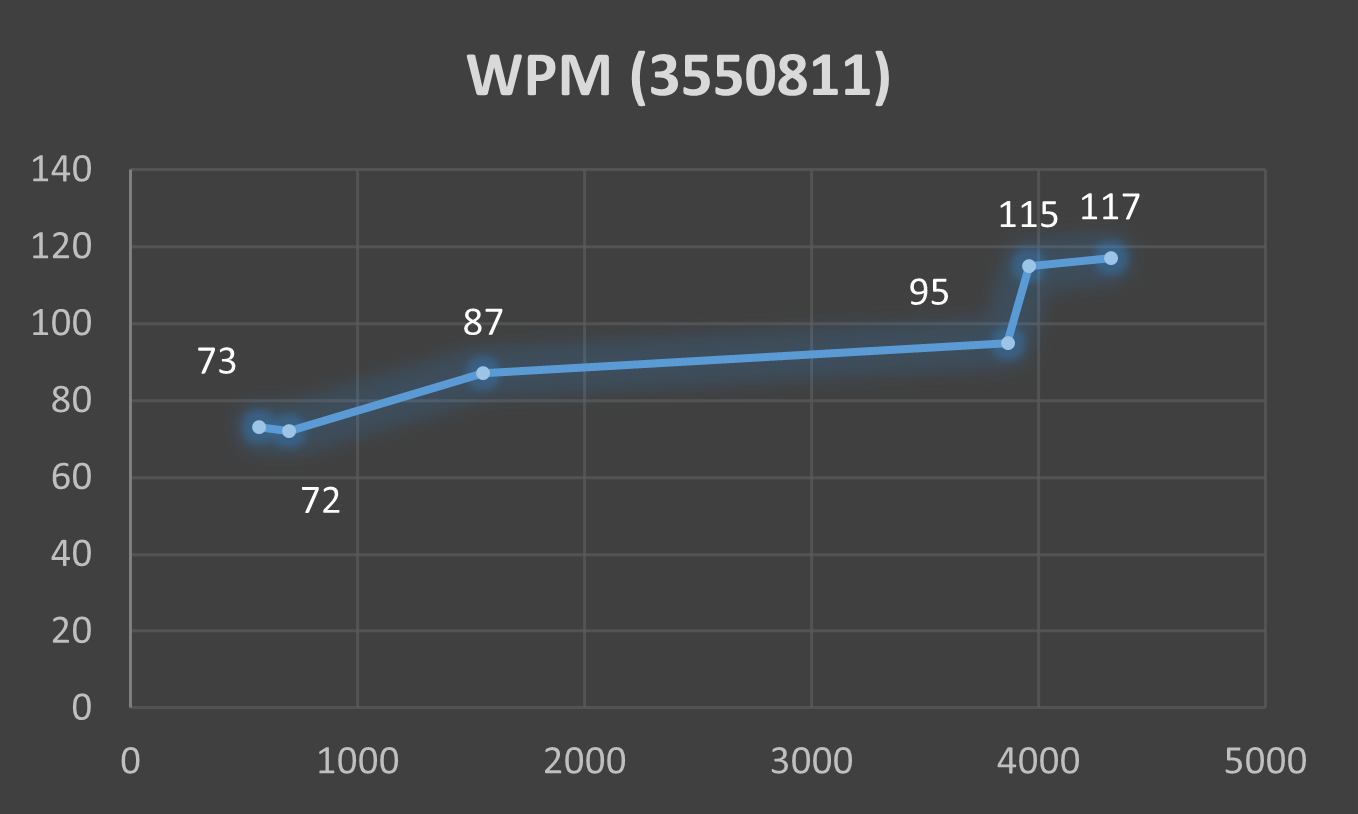
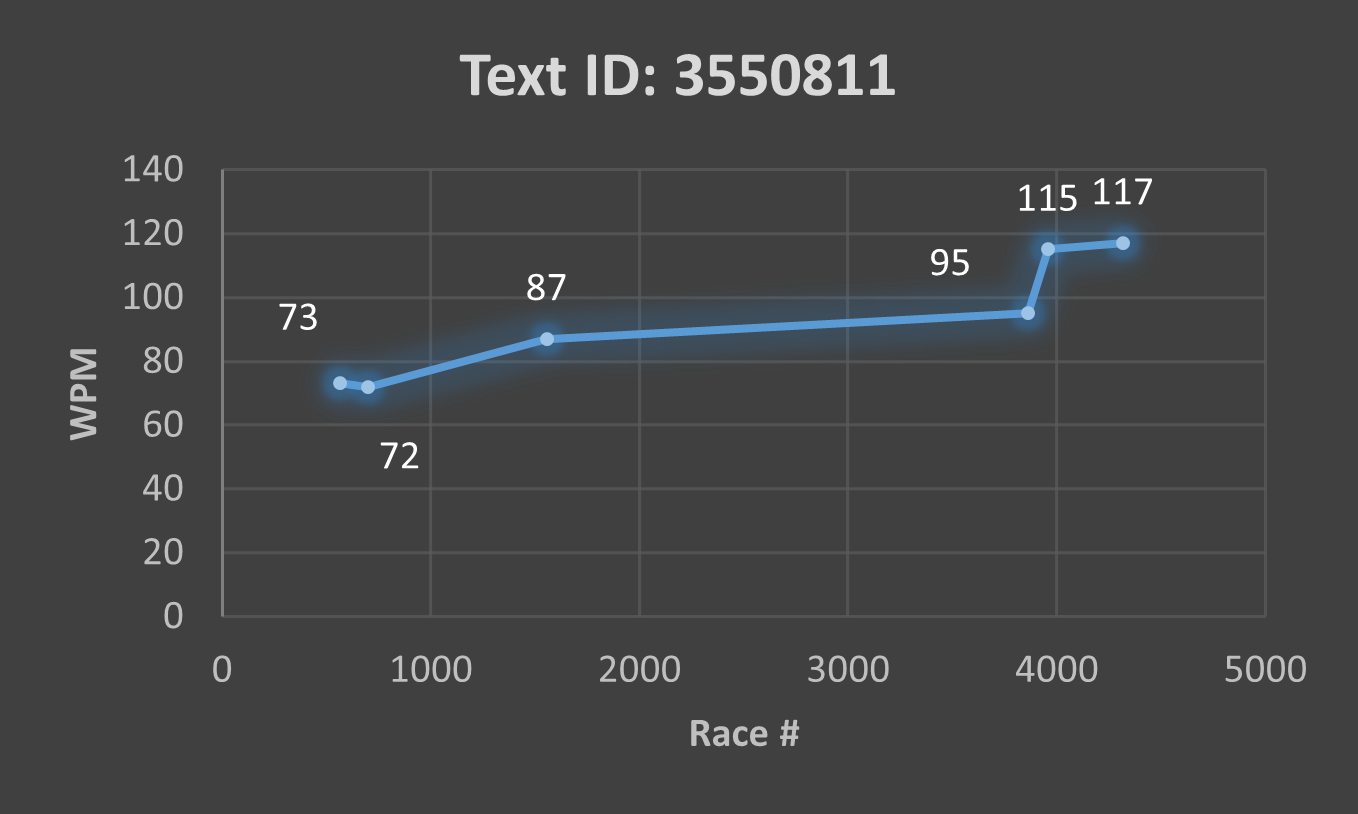
quote-samples outline

diff --git a/typeracer.html b/typeracer.html
@@ -202,7 +202,7 @@
                 <br><br>
                 ~~This <a href="https://typeracer.wordpress.com/2017/08/27/typeracer-reaches-3700-quotes-how-many-have-you-typed/">blog post</a> from 2017 suggests each skill level may encounter only a subset of these texts (playing naturally). Without further information, I had to make some simplyfing assumptions in my analysis.~~
                 <br><br>
-                ~~~~~ TODO: FINISH SUBSECTION ~~~~~
+                ~~~~~ TODO: FINISH SUBSECTION. SEGWAY INTO NEXT SECT. ~~~~~
             </p>
 
             <section class="cr-flex-col">
@@ -214,16 +214,31 @@
             </section>
             
         </section>
-        
-        
         <section class="section-break"></section>
 
-        <!-- subsection: Common Races Frequent Texts -->
-        <section class="cr-freq-texts">
-            <p class="text-quote">It is now time to make it unclear. To write off lines that don't make sense. I love myself better than you. I know it's wrong so what should I do? And one more special message to go, and then I'm done, and I can go home. I love myself better than you. I know it's wrong so what should I do?</p>
-            <img src="./images/charts/line-text-3550811.png">
-        </section>
-    </section>
+        <!-- subsection: sample quotes -->
+        <section class="sample-quotes-container">
+            <section class="sample-quote">
+                <p class="text-quote">It is now time to make it unclear. To write off lines that don't make sense. I love myself better than you. I know it's wrong so what should I do? And one more special message to go, and then I'm done, and I can go home. I love myself better than you. I know it's wrong so what should I do?
+                    <br><br>
+                    - On a Plain by Nirvana
+                </p>
+    
+                <img src="./images/charts/line-text-3550811.png">
+    
+                <section class="quote-stats-container">
+                    <img src="./images/charts/line-text-3550811.png">
+                </section>
+            </section>
+
+
+        </section> <!-- end container -->
+
+
+
+
+
+    </section> <!-- end Common Races -->
     
 
     <section class="section-break"></section>

diff --git a/CSS/typeracer.css b/CSS/typeracer.css
@@ -116,7 +116,7 @@ h4 {
     height: 44px;
 }
 
-table {
+.active-days-col table {
     display:flex;
     align-self:center;
     border-top:2px solid white;
@@ -193,21 +193,36 @@ table {
     margin-right:2vw;
 }
 
-/* ---- subsection: cr-freq-texts ---- */
-.cr-freq-texts {
+/* ---- subsection: sample quotes ---- */
+.sample-quote {
     display:flex;
     flex-direction:row;
-    justify-content: center;
+    justify-content: space-evenly;
     align-items: center;
-}
-
-.cr-freq-texts img {
-    width:30vw;
-    height:auto;
+    margin-bottom:5vh;
 }
 
 .text-quote {
     font-style: italic;
-    max-width:35vw;
+    width:25vw;
     font-size:20px;
+    background-color: black;
+    border-radius:12px;
+    padding:24px;
+    border:1px solid white;
+
+    margin:0px;
+}
+
+.sample-quote img {
+    width:25vw;
+    height:auto;
+    margin:0px;
+}
+
+.quote-stats-container {
+    padding:12px;
+    background-color: black;
+    border:1px solid white;
+    border-radius:12px;
 }
